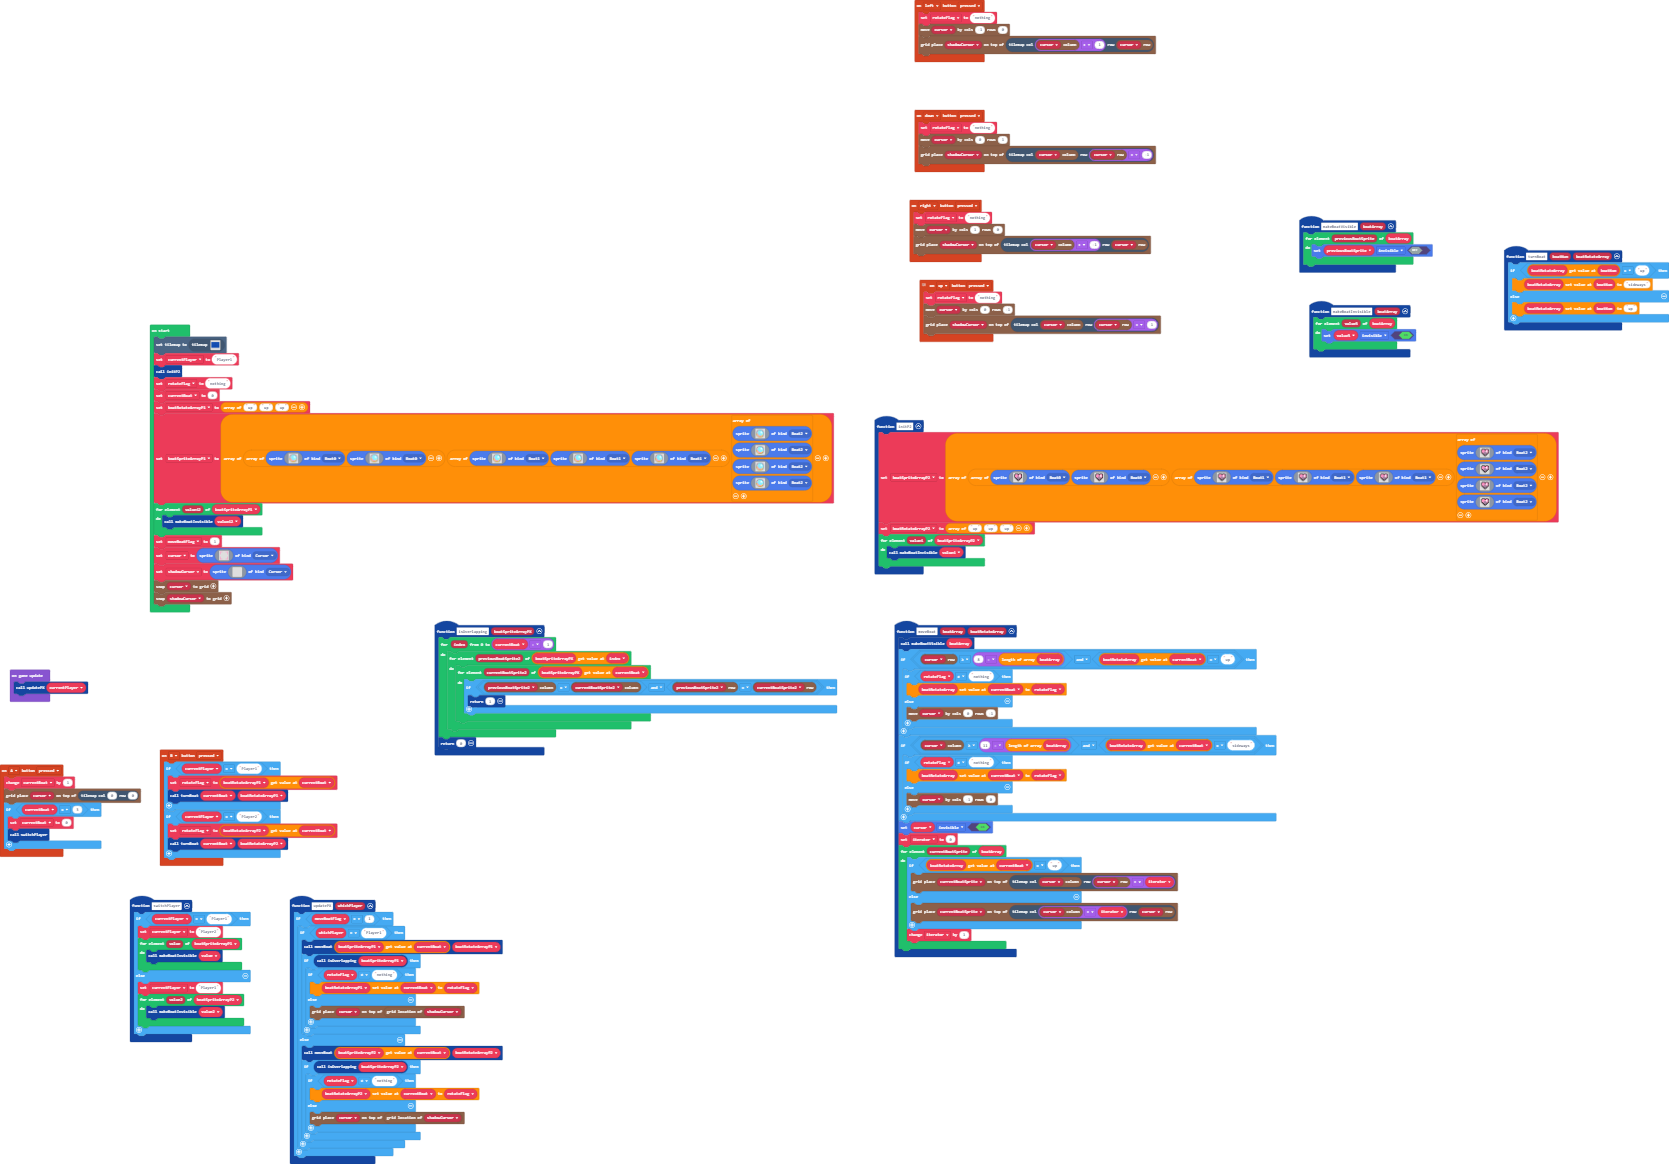
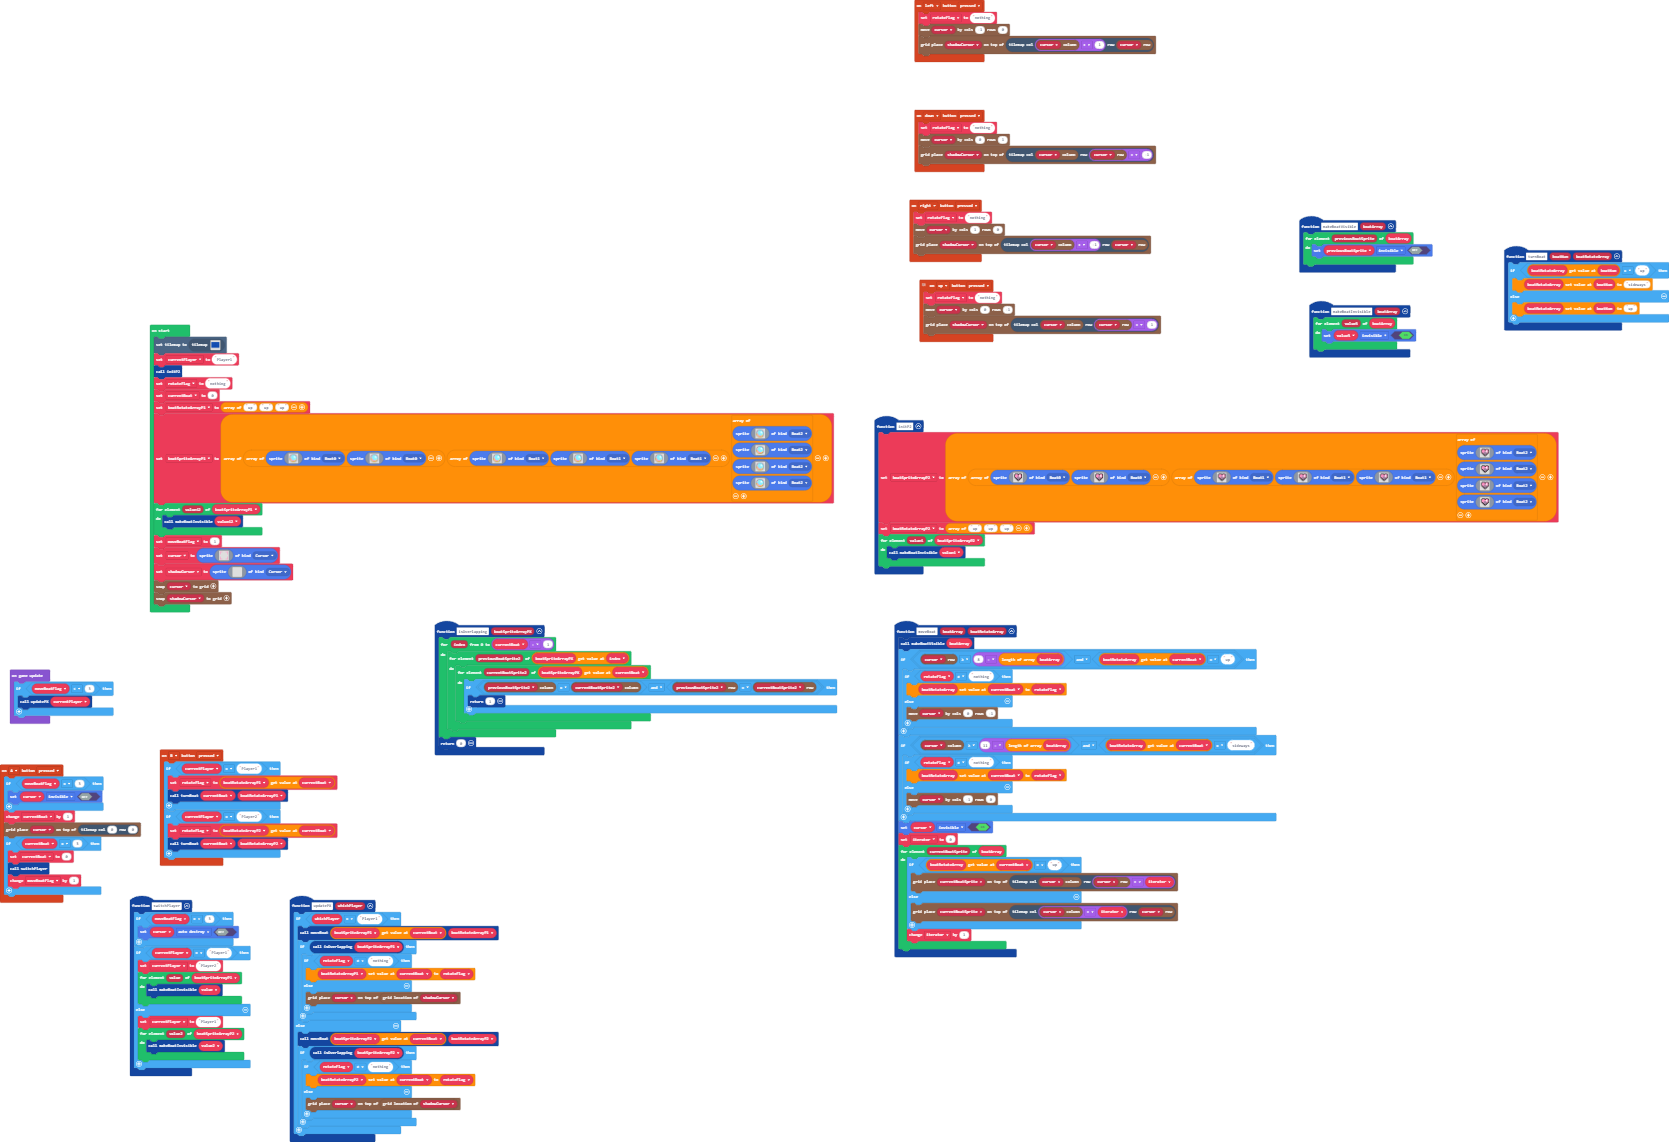
cursor attack mode

diff --git a/main.ts b/main.ts
@@ -11,24 +11,22 @@ controller.up.onEvent(ControllerButtonEvent.Pressed, function () {
     grid.place(shadowCursor, tiles.getTileLocation(grid.spriteCol(cursor), grid.spriteRow(cursor) + 1))
 })
 function updatePX (whichPlayer: string) {
-    if (moveBoatFlag == 1) {
-        if (whichPlayer == "Player1") {
-            moveBoat(boatSpriteArrayP1[currentBoat], boatRotateArrayP1)
-            if (isOverlapping(boatSpriteArrayP1)) {
-                if (rotateFlag != "nothing") {
-                    boatRotateArrayP1[currentBoat] = rotateFlag
-                } else {
-                    grid.place(cursor, grid.getLocation(shadowCursor))
-                }
+    if (whichPlayer == "Player1") {
+        moveBoat(boatSpriteArrayP1[currentBoat], boatRotateArrayP1)
+        if (isOverlapping(boatSpriteArrayP1)) {
+            if (rotateFlag != "nothing") {
+                boatRotateArrayP1[currentBoat] = rotateFlag
+            } else {
+                grid.place(cursor, grid.getLocation(shadowCursor))
             }
-        } else {
-            moveBoat(boatSpriteArrayP2[currentBoat], boatRotateArrayP2)
-            if (isOverlapping(boatSpriteArrayP2)) {
-                if (rotateFlag != "nothing") {
-                    boatRotateArrayP2[currentBoat] = rotateFlag
-                } else {
-                    grid.place(cursor, grid.getLocation(shadowCursor))
-                }
+        }
+    } else {
+        moveBoat(boatSpriteArrayP2[currentBoat], boatRotateArrayP2)
+        if (isOverlapping(boatSpriteArrayP2)) {
+            if (rotateFlag != "nothing") {
+                boatRotateArrayP2[currentBoat] = rotateFlag
+            } else {
+                grid.place(cursor, grid.getLocation(shadowCursor))
             }
         }
     }
@@ -49,11 +47,15 @@ function makeBoatVisible (boatArray: Sprite[]) {
     }
 }
 controller.A.onEvent(ControllerButtonEvent.Pressed, function () {
+    if (moveBoatFlag == 3) {
+        cursor.setFlag(SpriteFlag.Invisible, false)
+    }
     currentBoat += 1
     grid.place(cursor, tiles.getTileLocation(0, 0))
     if (currentBoat == 3) {
         currentBoat = 0
         switchPlayer()
+        moveBoatFlag += 1
     }
 })
 controller.left.onEvent(ControllerButtonEvent.Pressed, function () {
@@ -62,6 +64,9 @@ controller.left.onEvent(ControllerButtonEvent.Pressed, function () {
     grid.place(shadowCursor, tiles.getTileLocation(grid.spriteCol(cursor) + 1, grid.spriteRow(cursor)))
 })
 function switchPlayer () {
+    if (moveBoatFlag == 3) {
+        cursor.setFlag(SpriteFlag.AutoDestroy, false)
+    }
     if (currentPlayer == "Player1") {
         currentPlayer = "Player2"
         for (let value of boatSpriteArrayP1) {
@@ -527,5 +532,7 @@ shadowCursor = sprites.create(img`
 grid.snap(cursor)
 grid.snap(shadowCursor)
 game.onUpdate(function () {
-    updatePX(currentPlayer)
+    if (moveBoatFlag < 3) {
+        updatePX(currentPlayer)
+    }
 })
